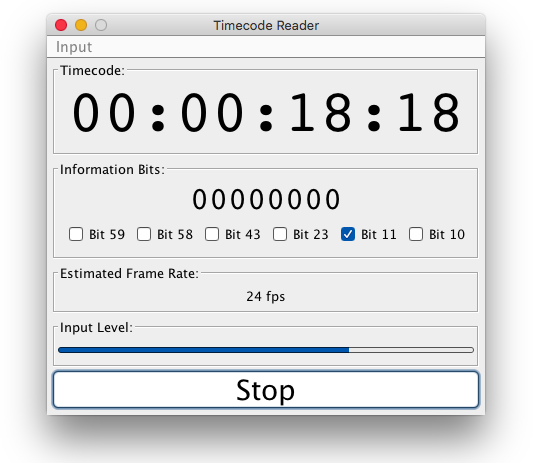
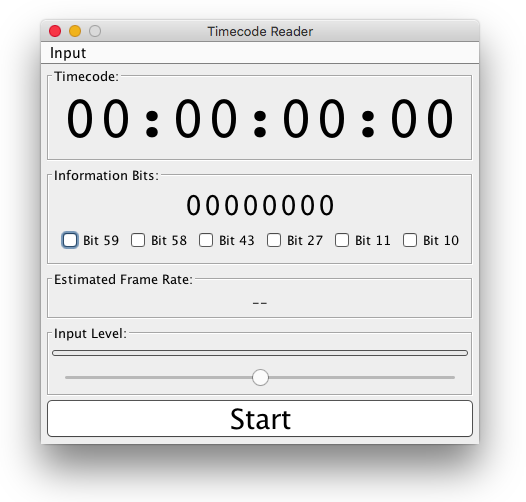
All Input Level JSlider control to adjust input level

Changed region(s): [[0.0608, 0.0302, 0.9125, 0.9071]]

diff --git a/src/TimecodeReader.java b/src/TimecodeReader.java
@@ -4,6 +4,8 @@ import javax.swing.border.Border;
 import java.awt.*;
 import java.awt.event.*;
 import java.io.*;
+import java.util.ArrayList;
+import java.util.List;
 import java.util.prefs.Preferences;
 
 // Reference: https://en.wikipedia.org/wiki/Linear_timecode
@@ -14,7 +16,7 @@ public class TimecodeReader extends JFrame implements Runnable {
   private final JButton           capture;
   private final TimeCode          timecode;
   private JMenu                   inputMenu;
-  private Mixer                   selectedMixer;
+  private InputSource             selectedInput;
   private Thread                  runThread;
 
   private class TimeCode extends JPanel implements Runnable {
@@ -22,11 +24,14 @@ public class TimecodeReader extends JFrame implements Runnable {
     private JLabel                timeView;
     private JCheckBox             user59, user58, user27, user43, user11, user10;
     private JLabel                userData, frameRate;
+    private JSlider               volumeSlider;
     private JProgressBar          levelMeter;
     private PipedInputStream      pipeIn;
     private PipedOutputStream     pipeOut;
     private AudioFormat           format;
     private boolean               running;
+    private Port                  mixerPort;
+    private FloatControl          volumeControl;
     // AudioFormat-related variables
     private AudioFormat.Encoding  encoding;
     private boolean               bigEndian;
@@ -71,14 +76,18 @@ public class TimecodeReader extends JFrame implements Runnable {
       userData.setFont(new Font("Courier", Font.PLAIN, 32));
       indicators.add(userBits);
       add(getTitledPanel("Information Bits:", indicators), BorderLayout.CENTER);
-      JPanel southSet = new JPanel(new GridLayout(2, 1));
-      // Create Input Level Panel
+      JPanel southSet = new JPanel(new BorderLayout());
+      // Create Input Level Meter Panel
       JPanel meterPanel = getTitledPanel("Input Level:", levelMeter = new JProgressBar(0, 100));
       meterPanel.setLayout(new BorderLayout());
       levelMeter.setValue(0);
-      meterPanel.add(levelMeter, BorderLayout.CENTER);
-      southSet.add(getTitledPanel("Estimated Frame Rate:", frameRate = new JLabel("--")));
-      southSet.add(meterPanel);
+      meterPanel.add(levelMeter, BorderLayout.NORTH);
+      meterPanel.add(volumeSlider = new JSlider(), BorderLayout.SOUTH);
+      volumeSlider.setMinimum(0);
+      volumeSlider.setMaximum(100);
+      volumeSlider.setEnabled(false);
+      southSet.add(getTitledPanel("Estimated Frame Rate:", frameRate = new JLabel("--")), BorderLayout.NORTH);
+      southSet.add(meterPanel, BorderLayout.CENTER);
       add(southSet, BorderLayout.SOUTH);
       decodeFrame(new int[4]);
     }
@@ -92,12 +101,34 @@ public class TimecodeReader extends JFrame implements Runnable {
       return frame;
     }
 
-    private void setFormat (AudioFormat format) {
-      this.format = format;
+    private void setFormat (InputSource source) {
+      this.format = source.format;
       encoding = format.getEncoding();
       bigEndian = format.isBigEndian();
       channels = format.getChannels();
       frameSize = format.getFrameSize();
+      // Setup Volume Control Mixer
+      try {
+        source.portMixer.open();
+        mixerPort = (Port) AudioSystem.getLine(source.inputType);
+        // Important: you must first open Port to get access to controls
+        mixerPort.open();
+        if (mixerPort.isControlSupported(FloatControl.Type.VOLUME)) {
+          volumeControl = (FloatControl) mixerPort.getControl(FloatControl.Type.VOLUME);
+          float curValue = volumeControl.getValue();
+          volumeSlider.setValue((int) (curValue * 100));
+          // Setup Volume Slider Change Hamdler
+          volumeSlider.addChangeListener(ev -> {
+            int value = volumeSlider.getValue();
+            volumeControl.setValue((float) value / 100);
+          });
+          volumeSlider.setEnabled(true);
+        } else {
+          volumeSlider.setEnabled(false);
+        }
+      } catch (LineUnavailableException ex) {
+        ex.printStackTrace();
+      }
     }
 
     private PipedOutputStream getPipeOut () {
@@ -119,6 +150,13 @@ public class TimecodeReader extends JFrame implements Runnable {
 
     private void close () {
       running = false;
+      volumeSlider.setEnabled(false);
+      if (mixerPort != null) {
+        mixerPort.close();
+      }
+      if (selectedInput != null) {
+        selectedInput.portMixer.close();
+      }
     }
 
     public void run () {
@@ -312,11 +350,10 @@ public class TimecodeReader extends JFrame implements Runnable {
 
   public void run () {
     try {
-      AudioFormat format = getFormat();
-      DataLine.Info dataLineInfo = new DataLine.Info(TargetDataLine.class, format);
-      TargetDataLine line = (TargetDataLine)  selectedMixer.getLine(dataLineInfo);
-      timecode.setFormat(format);
-      line.open(format);
+      DataLine.Info dataLineInfo = new DataLine.Info(TargetDataLine.class, selectedInput.format);
+      TargetDataLine line = (TargetDataLine)  selectedInput.targetMixer.getLine(dataLineInfo);
+      timecode.setFormat(selectedInput);
+      line.open(selectedInput.format);
       line.start();
       byte buffer[] = new byte[1024];
       running = true;
@@ -383,28 +420,23 @@ public class TimecodeReader extends JFrame implements Runnable {
     setJMenuBar(menuBar);
     // Add "Input" menu
     ButtonGroup group = new ButtonGroup();
-    Mixer.Info[] mixerInfos = AudioSystem.getMixerInfo();
     boolean hasInput = false;
-    for (Mixer.Info mixerInfo : mixerInfos) {
-      Mixer mixer = AudioSystem.getMixer(mixerInfo);
-      Line.Info[] lineInfos = mixer.getTargetLineInfo();
-      if (lineInfos.length > 0 && lineInfos[0].getLineClass().equals(TargetDataLine.class)) {
-        String input = mixerInfo.getName() + " (" + mixerInfo.getVendor() + ")";
-        boolean inputSelected = input.equals(prefs.get("audio.input", null));
-        if (inputSelected) {
-          selectedMixer = mixer;
-        }
-        JRadioButtonMenuItem mItem = new JRadioButtonMenuItem(input, inputSelected);
-        hasInput |= inputSelected;
-        inputMenu.add(mItem);
-        group.add(mItem);
-        mItem.addActionListener(ev -> {
-          String name = ev.getActionCommand();
-          selectedMixer = mixer;
-          prefs.put("audio.input", name);
-          capture.setEnabled(true);
-        });
+    for (InputSource source : getInputSources(new AudioFormat(44100, 16, 1, true, true))) {
+      String input = source.mixerName + " (" + source.targetMixer.getMixerInfo().getVendor() + ")";
+      boolean inputSelected = input.equals(prefs.get("audio.input", null));
+      if (inputSelected) {
+        selectedInput = source;
       }
+      JRadioButtonMenuItem mItem = new JRadioButtonMenuItem(input, inputSelected);
+      hasInput |= inputSelected;
+      inputMenu.add(mItem);
+      group.add(mItem);
+      mItem.addActionListener(ev -> {
+        String name = ev.getActionCommand();
+        selectedInput = source;
+        prefs.put("audio.input", name);
+        capture.setEnabled(true);
+      });
     }
     capture.setEnabled(hasInput);
     menuBar.add(inputMenu);
@@ -423,15 +455,58 @@ public class TimecodeReader extends JFrame implements Runnable {
     setVisible(true);
   }
 
-  private AudioFormat getFormat () {
-    float sampleRate = 22050;
-    int sampleSizeInBits = 16;
-    int channels = 1;
-    // Sample rate 44,100 Hz, 16 bit, 1 channel, signed, bigEndian
-    return new AudioFormat(sampleRate, sampleSizeInBits, channels, true, true);
+  static class InputSource {
+    String    mixerName;
+    Mixer     targetMixer, portMixer;
+    Port.Info inputType;
+    AudioFormat format;
+
+    InputSource (String mixerName, Mixer targetMixer, Mixer portMixer, Port.Info inputType, AudioFormat format) {
+      this.mixerName = mixerName;
+      this.targetMixer = targetMixer;
+      this.portMixer = portMixer;
+      this.inputType = inputType;
+      this.format = format;
+    }
   }
 
-  public static void main (String args[]) throws Exception {
+  private static java.util.List<InputSource> getInputSources (AudioFormat format) {
+    List<InputSource> srcList = new ArrayList<>();
+    loop:
+    for (Mixer.Info mixer : AudioSystem.getMixerInfo()) {
+      String mixerName = mixer.getName();
+      String[] devices = {mixerName, "MICROPHONE", "LINE_IN"};
+      for (String device : devices) {
+        Port.Info inputType = new Port.Info(Port.class, device, true);
+        Mixer targetMixer = AudioSystem.getMixer(mixer);
+        DataLine.Info  targetDataLineInfo = new DataLine.Info(TargetDataLine.class, format);
+        if (targetMixer.isLineSupported(targetDataLineInfo)) {
+          for (Mixer.Info portMixerInfo : AudioSystem.getMixerInfo()) {
+            String portMixerName = portMixerInfo.getName();
+            // Find port mixer by prefixing name with "Port "
+            if (("Port " + mixerName).equals(portMixerName)) {
+              Mixer portMixer = AudioSystem.getMixer(portMixerInfo);
+              // Check if inputType matches that used to select targetMixer
+              boolean lineTypeSupported = portMixer.isLineSupported(inputType);
+              if (lineTypeSupported) {
+                try {
+                  // Check if we can get access to a TargetDataLine object to read data
+                  if (AudioSystem.getLine(targetDataLineInfo) != null) {
+                    srcList.add(new InputSource(mixerName, targetMixer, portMixer, inputType, format));
+                  }
+                } catch (LineUnavailableException e) {
+                  e.printStackTrace();
+                }
+                continue loop;
+              }
+            }
+          }
+        }
+      }
+    }
+    return srcList;
+  }
+  public static void main (String args[]) {
     new TimecodeReader();
   }
 }

diff --git a/README.md b/README.md
@@ -2,7 +2,7 @@
 
 <p align="center"><img src="https://github.com/wholder/TimecodeReader/blob/master/images/TimecodeReader%20Screenshot.png"></p>
 
-**`TimecodeReader`** can read an audio input signal using either a microphone, or line-level input and decode [SMPTE/EBU Timecode](http://www.philrees.co.uk/articles/timecode.htm) in real time.  Use the "**Input**" menu to select the source of the signal and then press "**Start**" to begin realtime timecode decoding and display.  Then, adjust the input level to keep the "**Input Level**" bar graph within a reasonable range. For OSX you'll need to use **Input** tab in **Sound Preferences** to adjust the input volume by first selecting the same device you selected in the "**Input**" menu and then adjusting the "**Input Volume**" slider.  If you're using a microphone input, you may also need to use an audio attenuator cable to reduce the signal level and avoid overdriving the input.
+**`TimecodeReader`** can read an audio input signal using either a microphone, or line-level input and decode [SMPTE/EBU Timecode](http://www.philrees.co.uk/articles/timecode.htm) in real time.  Use the "**Input**" menu to select the source of the signal and then press "**Start**" to begin realtime timecode decoding and display.  Then, adjust the "**Input Level**" slider to keep the bar graph within a reasonable range. If you're using a microphone input, you may also need to use an audio attenuator cable to reduce the signal level and avoid overdriving the input.
 
 The checkboxes in the "**Information Bits**" section display the settings of some special "**Flag**" bits included in each frame of the timecode stream.  These are used to provide additional information for advanced users, but the meaing of these bits has evolved over time and also depends on the timecode frame rate, so [check this reference](https://en.wikipedia.org/wiki/Linear_timecode) for more info on what these bits mean, or hover or each checkbox to display some brief tooltip text.  The line of 8 digits above the checkboxes display the value of some additional special bits called "**User**" bits which are normally used to record an 8 digit BCD number for purposes such as recording date, scene, or take information.  The "**Estimated Frame Rate**" field tries to estimate the frame rate by watching for the maximum frame number between sucessive seconds and displaying the value + 1.  
 
